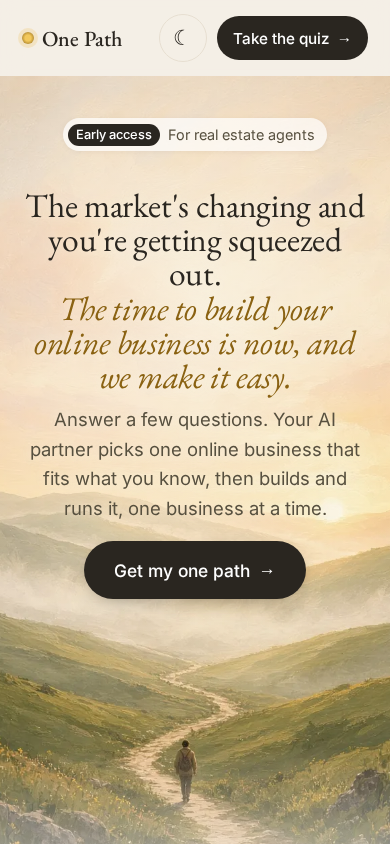
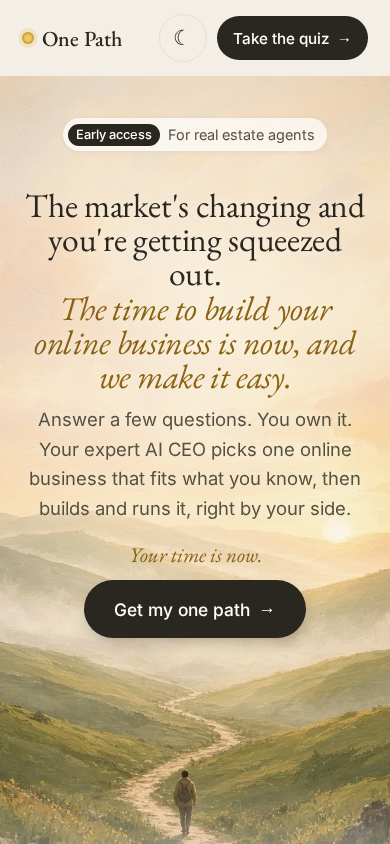
Owner + expert AI CEO + your time is now

Changed region(s): [[0.0, 0.4929, 1.0, 1.0]]

diff --git a/side/index.html b/side/index.html
@@ -16,13 +16,14 @@
 <section class="hero"><picture class="heroimg day" aria-hidden="true"><source media="(max-width:759px)" srcset="../img/hero-tall.webp"><img src="../img/hero-wide.webp" alt="" fetchpriority="high"></picture><picture class="heroimg night" aria-hidden="true"><source media="(max-width:759px)" srcset="../img/hero-night-tall.webp"><img src="../img/hero-night-wide.webp" alt="" loading="lazy"></picture><div class="wrap fade">
   <p class="tag"><b>Early access</b> Ready for something more</p>
   <h1>You've outgrown the job. That's okay.<br><em>Build something of your own on the side.</em></h1>
-  <p class="sub">Security, retail, care work: you already know how to show up. Answer a few easy questions and your AI partner picks one small online business that fits your hours, then builds it with you, one business at a time.</p>
+  <p class="sub">Answer a few easy questions. You own it. Your expert AI CEO picks one small online business that fits your hours, then builds and runs it, right by your side.</p>
+  <p class="now">Your time is now.</p>
   <a href="#quiz" class="btn">Get my one path <span>→</span></a>
   <ul class="reassure"><li>Free</li><li>Takes about 5 minutes</li><li>Go back anytime</li><li>You can't break anything</li></ul>
 </div></section>
 <section class="wrap how fade"><p class="eyebrow">How it works</p>
   <div><h3>1. Answer easy questions</h3><p>About your work, hobbies and what people ask you for help with. You get one clear answer, and the reasons.</p></div>
-  <div><h3>2. Your AI partner builds it</h3><p>It chooses the topic, builds the website, writes the words and sets up the email. Nothing to install, nothing technical for you to learn.</p></div>
+  <div><h3>2. Your AI CEO builds it</h3><p>It chooses the topic, builds the website, writes the words and sets up the email. Nothing to install, nothing technical for you to learn.</p></div>
   <div><h3>3. You approve, it does the work</h3><p>Weekly updates in plain English and a few yes/no approvals. Only the steps that need your name or face are yours.</p></div>
 </section>
 <section id="quiz" class="wrap card fade">

diff --git a/agents/index.html b/agents/index.html
@@ -16,13 +16,14 @@
 <section class="hero"><picture class="heroimg day" aria-hidden="true"><source media="(max-width:759px)" srcset="../img/hero-tall.webp"><img src="../img/hero-wide.webp" alt="" fetchpriority="high"></picture><picture class="heroimg night" aria-hidden="true"><source media="(max-width:759px)" srcset="../img/hero-night-tall.webp"><img src="../img/hero-night-wide.webp" alt="" loading="lazy"></picture><div class="wrap fade">
   <p class="tag"><b>Early access</b> For real estate agents</p>
   <h1>The market's changing and you're getting squeezed out.<br><em>The time to build your online business is now, and we make it easy.</em></h1>
-  <p class="sub">Answer a few questions. Your AI partner picks one online business that fits what you know, then builds and runs it, one business at a time.</p>
+  <p class="sub">Answer a few questions. You own it. Your expert AI CEO picks one online business that fits what you know, then builds and runs it, right by your side.</p>
+  <p class="now">Your time is now.</p>
   <a href="#quiz" class="btn">Get my one path <span>→</span></a>
   <ul class="reassure"><li>Free</li><li>Takes about 5 minutes</li><li>Go back anytime</li><li>You can't break anything</li></ul>
 </div></section>
 <section class="wrap how fade"><p class="eyebrow">How it works</p>
   <div><h3>1. Answer easy questions</h3><p>About your work, hobbies and what people ask you for help with. You get one clear answer, and the reasons.</p></div>
-  <div><h3>2. Your AI partner builds it</h3><p>It chooses the topic, builds the website, writes the words and sets up the email. Nothing to install, nothing technical for you to learn.</p></div>
+  <div><h3>2. Your AI CEO builds it</h3><p>It chooses the topic, builds the website, writes the words and sets up the email. Nothing to install, nothing technical for you to learn.</p></div>
   <div><h3>3. You approve, it does the work</h3><p>Weekly updates in plain English and a few yes/no approvals. Only the steps that need your name or face are yours.</p></div>
 </section>
 <section id="quiz" class="wrap card fade">

diff --git a/index.html b/index.html
@@ -16,13 +16,14 @@
 <section class="hero"><picture class="heroimg day" aria-hidden="true"><source media="(max-width:759px)" srcset="img/hero-tall.webp"><img src="img/hero-wide.webp" alt="" fetchpriority="high"></picture><picture class="heroimg night" aria-hidden="true"><source media="(max-width:759px)" srcset="img/hero-night-tall.webp"><img src="img/hero-night-wide.webp" alt="" loading="lazy"></picture><div class="wrap fade">
   <p class="tag"><b>Early access</b> No tech skills needed</p>
   <h1>Overwhelmed? It's all too much.<br><em>Let's build one business at a time.</em></h1>
-  <p class="sub">Answer a few easy questions. Your AI partner picks one small online business that fits you, then builds it and runs the day-to-day.</p>
+  <p class="sub">Answer a few easy questions. We pick one small online business that fits you. You own it. Your expert AI CEO builds it and runs it, right by your side.</p>
+  <p class="now">Your time is now.</p>
   <a href="#quiz" class="btn">Get my one path <span>→</span></a>
   <ul class="reassure"><li>Free</li><li>Takes about 5 minutes</li><li>Go back anytime</li><li>You can't break anything</li></ul>
 </div></section>
 <section class="wrap how fade"><p class="eyebrow">How it works</p>
   <div><h3>1. Answer easy questions</h3><p>About your work, hobbies and what people ask you for help with. You get one clear answer, and the reasons.</p></div>
-  <div><h3>2. Your AI partner builds it</h3><p>It chooses the topic, builds the website, writes the words and sets up the email. Nothing to install, nothing technical for you to learn.</p></div>
+  <div><h3>2. Your AI CEO builds it</h3><p>It chooses the topic, builds the website, writes the words and sets up the email. Nothing to install, nothing technical for you to learn.</p></div>
   <div><h3>3. You approve, it does the work</h3><p>Weekly updates in plain English and a few yes/no approvals. Only the steps that need your name or face are yours.</p></div>
 </section>
 <section id="quiz" class="wrap card fade">

diff --git a/easy/index.html b/easy/index.html
@@ -16,7 +16,8 @@
 <section class="hero"><picture class="heroimg day" aria-hidden="true"><source media="(max-width:759px)" srcset="../img/hero-tall.webp"><img src="../img/hero-wide.webp" alt="" fetchpriority="high"></picture><picture class="heroimg night" aria-hidden="true"><source media="(max-width:759px)" srcset="../img/hero-night-tall.webp"><img src="../img/hero-night-wide.webp" alt="" loading="lazy"></picture><div class="wrap fade">
   <p class="tag"><b>Early access</b> No computer skills needed</p>
   <h1>Let us handle it for you.<br><em>One small business, one step at a time.</em></h1>
-  <p class="sub">Answer a few easy questions in plain English. We pick one small online business that suits you, then build it and look after it. You just say yes or no.</p>
+  <p class="sub">Answer a few easy questions. You own the business. Your expert AI CEO (a smart helper) builds it and looks after it, right by your side.</p>
+  <p class="now">Your time is now.</p>
   <a href="#quiz" class="btn">Get my one path <span>→</span></a>
   <ul class="reassure"><li>Free</li><li>Takes about 5 minutes</li><li>Go back anytime</li><li>You can't break anything</li></ul>
 </div></section>

diff --git a/style.css b/style.css
@@ -161,3 +161,4 @@ footer{font-size:.9rem}.how p{font-size:1.02rem}
 /* easy page: extra-big plain type */
 body.big{font-size:19px}body.big .hero .sub{font-size:1.2rem}body.big .opt{font-size:1.2rem}body.big .btn{font-size:1.1rem;padding:18px 30px}body.big h1{font-size:clamp(2.9rem,10vw,5rem)}
 body.long .hero h1{font-size:clamp(2.1rem,7.4vw,4rem)}
+.now{font:italic 1.3rem var(--serif);color:var(--gold);margin:0 0 12px}
